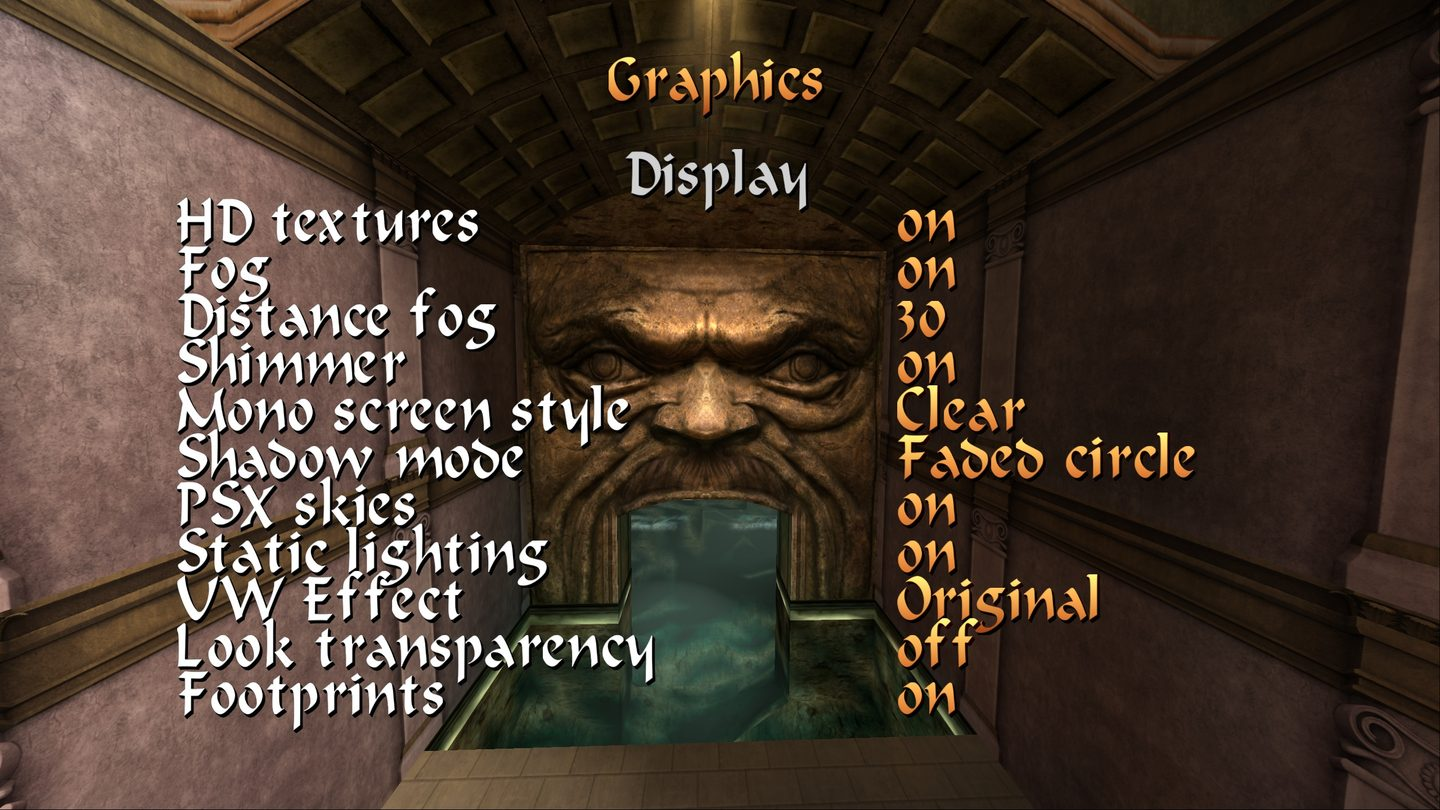
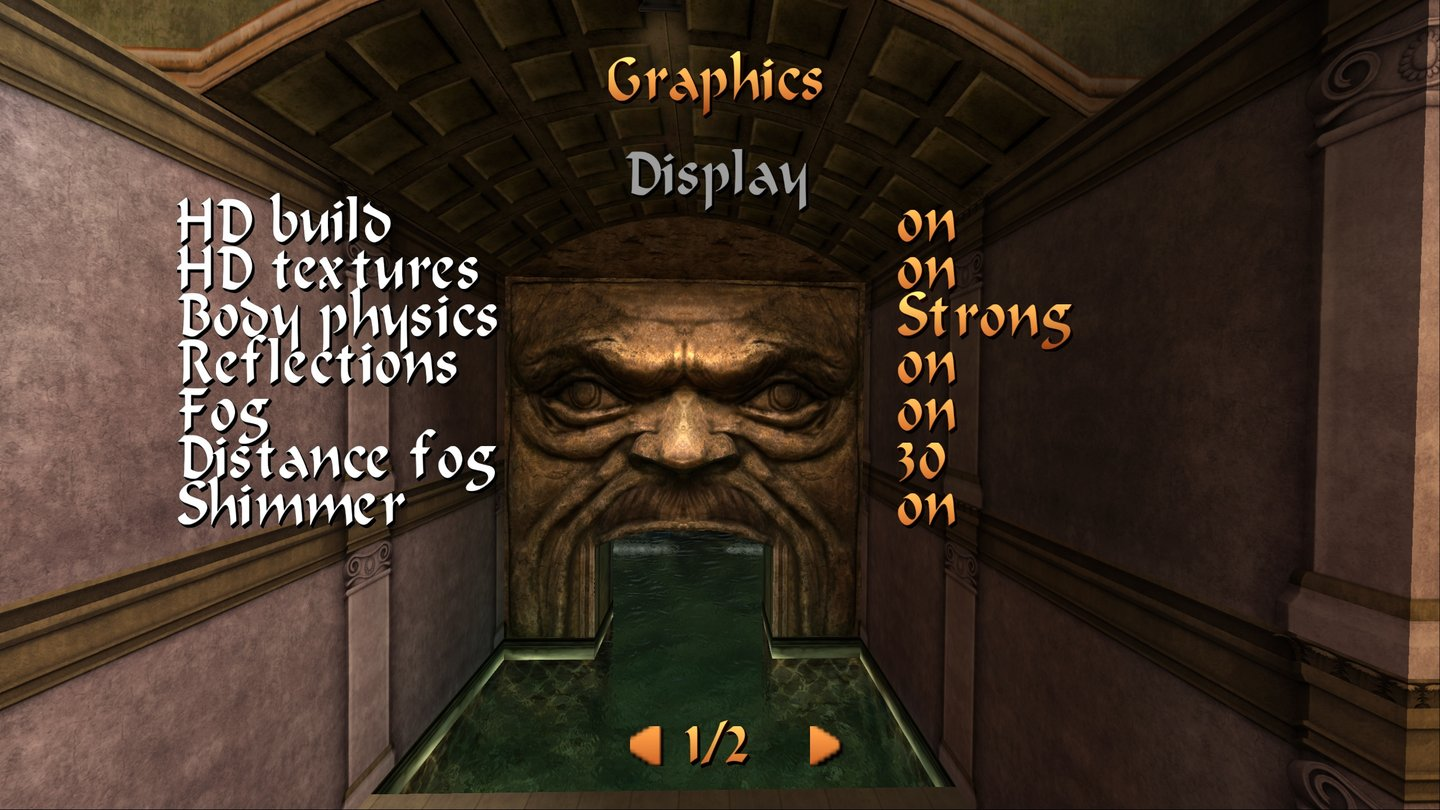
Beta 3.0's menu pictures and the HD look in the README (#241)
The README's menu table still showed Beta 2.0's pages and said so in seven
places; Beta 3.0's pages are now taken. The eleven menu and credits pictures
are replaced under their names, and the outfit changer's picture with a new
one of the same page. Every caption was read against its new picture: the
Beta 2.0 sentences are gone, the Graphics caption names only the first of
its two pages, the View caption says what the Body row does (animated or
still), and the Options caption says how Special Features is drawn away from
the title screen. The engine manual's tomb5 options picture loses its Beta
2.0 sentence for the same reason.

A new table after the menu table shows the HD look in thirteen pictures:
the water five times (a canal with floats, falling water and its foam, a
spring seen from below, the sea's underside, the fish tank), the polished
floor's mirror, the washroom mirror, the gloss on metal, the projected
shadow, fog, the view to the horizon, the first-person view and an HD
loading screen with its loading text. Each caption names the feature and
its option row where the engine has one.

The mirror picture shows a third-party MP5 model, so its mod gets a row in
the mods table, credited to its author as the other row of that author.

features-2.jpg and gui-language.jpg were referenced by no document and are
removed; ingame-08.jpg stays, the engine manual shows it.

Every new picture is 1440 x 810, baseline JPEG at quality 85, no metadata.

diff --git a/README.md b/README.md
@@ -107,34 +107,31 @@ the title screen, as a tree of tabs: **Audio**, **Controls**, **Graphics**,
 **HUD**, **tomb5 options**, **Special Features** and **Credits** — with
 sub-pages of their own, *Key bindings*, *View* and *Modes* under Controls and
 *Display* under Graphics. The original's own rows are where they always were;
-nothing was taken away. The pictures below show Beta 2.0's pages until Beta
-3.0's are taken; the captions name the rows as Beta 3.0 has them, so a caption
-can name a row its picture does not show yet.
+nothing was taken away.
 
 <table>
 <tr>
 <td width="50%"><img src="docs/menu-options.jpg" alt="The Options menu"><br>
-The seven tabs. <i>Special Features</i> opens from the title screen; in a
-pause session it is shown greyed out.</td>
+The seven tabs. <i>Special Features</i> opens from the title screen only;
+anywhere else it is drawn in red, as here, and the cursor steps over it.</td>
 <td width="50%"><img src="docs/menu-tomb5-options.jpg" alt="tomb5 options"><br>
 <b>tomb5 options</b>: the cutscene skipper, cheats, level select, and the
 three movement fixes — climb-up delay, flexible crawling, crawl tilting.</td>
 </tr>
 <tr>
 <td width="50%"><img src="docs/menu-graphics.jpg" alt="Graphics"><br>
-<b>Graphics</b>, over two pages: HD textures with Body physics under it,
-Reflections, fog and distance fog, shimmer, the mono screen and shadow styles,
-PSX skies, static lighting, the underwater effect, look transparency and
-footprints. The picture is Beta 2.0's page, without Body physics and
-Reflections.</td>
+<b>Graphics</b>, over two pages, the first shown here: <i>Display</i> on
+top, then HD build, HD textures with Body physics under it, Reflections, Fog,
+Distance fog and Shimmer. The arrows at the bottom turn to the second page and
+its seven rows.</td>
 <td width="50%"><img src="docs/menu-display.jpg" alt="Display"><br>
-<b>Display</b>, under Graphics: the frame rate — 30, 60 or whatever your
-screen refreshes at; 60 is what a fresh installation gets — VSync, and
-Gamma, a slider that lightens or darkens every picture the game shows, in a
-window or full screen; its middle, the default, changes nothing, and the
-number beside the bar, a percentage, says where it stands (with the percent
-sign on screens of about 3:2 and wider, without it on narrower ones such as
-4:3). The picture is Beta 2.0's page, without Gamma.</td>
+<b>Display</b>, under Graphics: the frame rate — 30, 60 or <i>Display</i>,
+whatever your screen refreshes at; 60 is what a fresh installation gets —
+VSync, and Gamma, a slider that lightens or darkens every picture the game
+shows, in a window or full screen; its middle, the default, changes nothing,
+and the number beside the bar, a percentage, says where it stands (with the
+percent sign on screens of about 3:2 and wider, without it on narrower ones
+such as 4:3).</td>
 </tr>
 <tr>
 <td width="50%"><img src="docs/menu-controls.jpg" alt="Controls"><br>
@@ -142,34 +139,102 @@ sign on screens of about 3:2 and wider, without it on narrower ones such as
 Secondary button, the pad layout, and for Modern controls camera speed, dead
 zone and mouse sensitivity (bars with their number beside them, a percentage,
 its sign shown as on Display) and Invert mouse; then targeting and the ammo
-hotkeys. The picture is Beta 2.0's page, without the mouse rows and the
-numbers.</td>
+hotkeys.</td>
 <td width="50%"><img src="docs/menu-key-bindings.jpg" alt="Key bindings"><br>
-<b>Key bindings</b>: every role rebindable, on the keyboard and on the pad
-alike, over as many pages as the list needs, with <i>Reset to defaults</i>
-standing above each of them.</td>
+<b>Key bindings</b>: every role rebindable, on the keyboard and - as here -
+on the pad, over as many pages as the list needs, with <i>Reset to
+defaults</i> standing above each of them.</td>
 </tr>
 <tr>
 <td width="50%"><img src="docs/menu-view.jpg" alt="View"><br>
 <b>View</b>: the first-person view, its field of view, the death camera, the
-head-bone look, the damping, and whether her body is drawn.</td>
+head-bone look, the damping, and whether her body stays animated or holds
+still while she stands.</td>
 <td width="50%"><img src="docs/menu-modes.jpg" alt="Modes"><br>
 <b>Modes</b>: Combat, Sprint, Duck and Grab, each of them Toggle or Hold, and
-Ledge hang (Modern controls only, off by default). The picture is Beta 2.0's
-page, without Ledge hang.</td>
+Ledge hang (Modern controls only, off by default).</td>
 </tr>
 <tr>
 <td width="50%"><img src="docs/menu-hud.jpg" alt="HUD"><br>
 <b>HUD</b>: bar mode and positions, enemy bars, the ammo counter, the
 game-over menu, the loading bar style (TR5, TR4 or off - no loading screen
 for a short load) and the loading text (the name of the level being
-loaded). The picture is Beta 2.0's page: its <i>TR4 loadscreens</i> row is
-gone, and every load that shows a screen shows the level's own picture.</td>
+loaded).</td>
 <td width="50%"><img src="docs/menu-audio.jpg" alt="Audio"><br>
 <b>Audio</b>: music and effect volume, each a bar with its number beside it,
 a percentage from 0 to 100 (its sign shown as on Display), sound quality —
-and the language, which can be changed while the game runs. The picture is
-Beta 2.0's page, without the numbers.</td>
+and the language, which can be changed while the game runs.</td>
+</tr>
+</table>
+
+<sup>HD art is read at run time from the player's own Tomb Raider IV-VI
+Remastered installation — none of it is included here.</sup>
+
+The HD look, in pictures: the engine's own water, mirrors, shine, shadows and
+fog over the Remaster's art, with *HD textures* on.
+
+<table>
+<tr>
+<td width="50%"><img src="docs/hd-water-river.jpg" alt="Floats on a canal"><br>
+<b>HD water</b> on a canal: the engine's own moving surface, the floor seen
+bent through it, and a barrel and smaller things drifting on its current.</td>
+<td width="50%"><img src="docs/hd-water-foam.jpg" alt="Falling water and foam"><br>
+<b>HD water</b>: water falls from the ceiling of a flooded corridor, and foam
+spreads on the surface where it lands.</td>
+</tr>
+<tr>
+<td width="50%"><img src="docs/hd-water-spring.jpg" alt="A spring, from below"><br>
+<b>HD water</b> from below: a spring's small bubbles rise from a crack in the
+floor, the light the waves gather plays on the rock, and the surface overhead
+shows the room above it, bent.</td>
+<td width="50%"><img src="docs/hd-water-underwater.jpg" alt="Under the sea"><br>
+<b>HD water</b> in Deepsea Dive: the sea's surface seen from below, a dark
+blue underside with its small waves and a soft glow of light through it.</td>
+</tr>
+<tr>
+<td width="50%"><img src="docs/hd-water-fish.jpg" alt="The fish tank"><br>
+The fish tank in the VCI building holds a school of fish behind its glass,
+and the black marble in front of it mirrors the room (<i>Reflections</i>,
+on Graphics).</td>
+<td width="50%"><img src="docs/hd-reflection-floor.jpg" alt="A mirroring floor"><br>
+<b>Reflections</b>: a polished floor mirrors the room standing over it - the
+columns in the dark marble, the walls in the mosaic under Lara. <i>Options
+-> Graphics -> Reflections</i> switches it.</td>
+</tr>
+<tr>
+<td width="50%"><img src="docs/hd-reflection-mirror.jpg" alt="A washroom mirror"><br>
+A washroom of the VCI building: Lara in the mirror on the wall, and the green
+tiles of the floor mirroring the room (<i>Reflections</i>). The MP5 on her
+back is a third-party mod, credited under <i>Mods shown in the
+screenshots</i> below.</td>
+<td width="50%"><img src="docs/hd-reflection-surface.jpg" alt="Lamplight on metal"><br>
+A lamp's light lies on the wall where it hangs, and the metal round Lara
+catches it: in an HD room metal, marble and ice shine. It is a gloss, not a
+mirror - nothing of the room is drawn a second time.</td>
+</tr>
+<tr>
+<td width="50%"><img src="docs/hd-shadows.jpg" alt="Lara's projected shadow"><br>
+<b>Shadow mode</b> <i>Projected</i> (<i>Graphics</i>, second page), the
+default, offered while HD is on: Lara's own outline lies soft-edged on the
+deck beside her, in place of the round blob.</td>
+<td width="50%"><img src="docs/hd-fog.jpg" alt="Fog in a cave"><br>
+<b>Fog</b> and <b>Distance fog</b> (<i>Graphics</i>): the far side of the
+cave fades into the haze as Lara dives.</td>
+</tr>
+<tr>
+<td width="50%"><img src="docs/hd-distance.jpg" alt="A view to the horizon at dusk"><br>
+The view across the level to the horizon: the far hills, the trees and the
+standing stones under the sky at dusk, with the moon over them.</td>
+<td width="50%"><img src="docs/first-person.jpg" alt="First person view"><br>
+The <b>first-person view</b> (<i>Controls -> View -> First person
+view</i>): the camera sits behind her eyes, her head is not drawn, and her
+arms aim the Uzis down the street.</td>
+</tr>
+<tr>
+<td colspan="2" align="center">
+<img src="docs/hd-loading-screen.jpg" alt="An HD loading screen" width="640"><br>
+An HD loading screen with <b>Loading text</b> on (<i>HUD</i>): the level's
+name at the top centre, the TR5 bar along the bottom.</td>
 </tr>
 </table>
 
@@ -782,6 +847,7 @@ Remastered installation — none of it is included here.</sup>
 | [IMI Uzi Replacement for Mac-10](https://www.nexusmods.com/tombraidertrilogyremastered/mods/187) | [xKhalix](https://www.nexusmods.com/profile/xKhalix) | the Uzi picture |
 | [Tomb Raider - Underworld - AIO](https://www.nexusmods.com/tombraidertrilogyremastered/mods/954) | [DarkLegendAoD](https://www.nexusmods.com/profile/DarkLegendAoD) | the outfit changer with mods, and the Uzi picture |
 | [OPERA DRESS (Tomb Raider 5)](https://www.nexusmods.com/tombraidertrilogyremastered/mods/281) | [Zellphie](https://www.nexusmods.com/profile/Zellphie) | the shotgun picture |
+| [Tomb Raider - Angel of Darkness - Mag Vega](https://www.nexusmods.com/tombraidertrilogy2remastered/mods/79) | [DarkLegendAoD](https://www.nexusmods.com/profile/DarkLegendAoD) | the washroom mirror picture (the MP5) |
 
 These are third-party mods by their respective authors. They are not part of
 this project and are not included; get them from the authors' pages.

diff --git a/docs/Engine-Manual.md b/docs/Engine-Manual.md
@@ -753,9 +753,7 @@ stay as they are.
 
 <p align="center"><em>The HD art in this and every other screenshot is read at
 run time from the player's own <strong>Tomb Raider IV-VI Remastered</strong>
-installation — none of it is included here. The picture shows this page as
-Beta 2.0 had it, until Beta 3.0's is taken; the text below is this
-build's.</em></p>
+installation — none of it is included here.</em></p>
 
 Six settings the original never had, and that belong neither to *Graphics*
 nor to *HUD* (see **The options menu** above):
